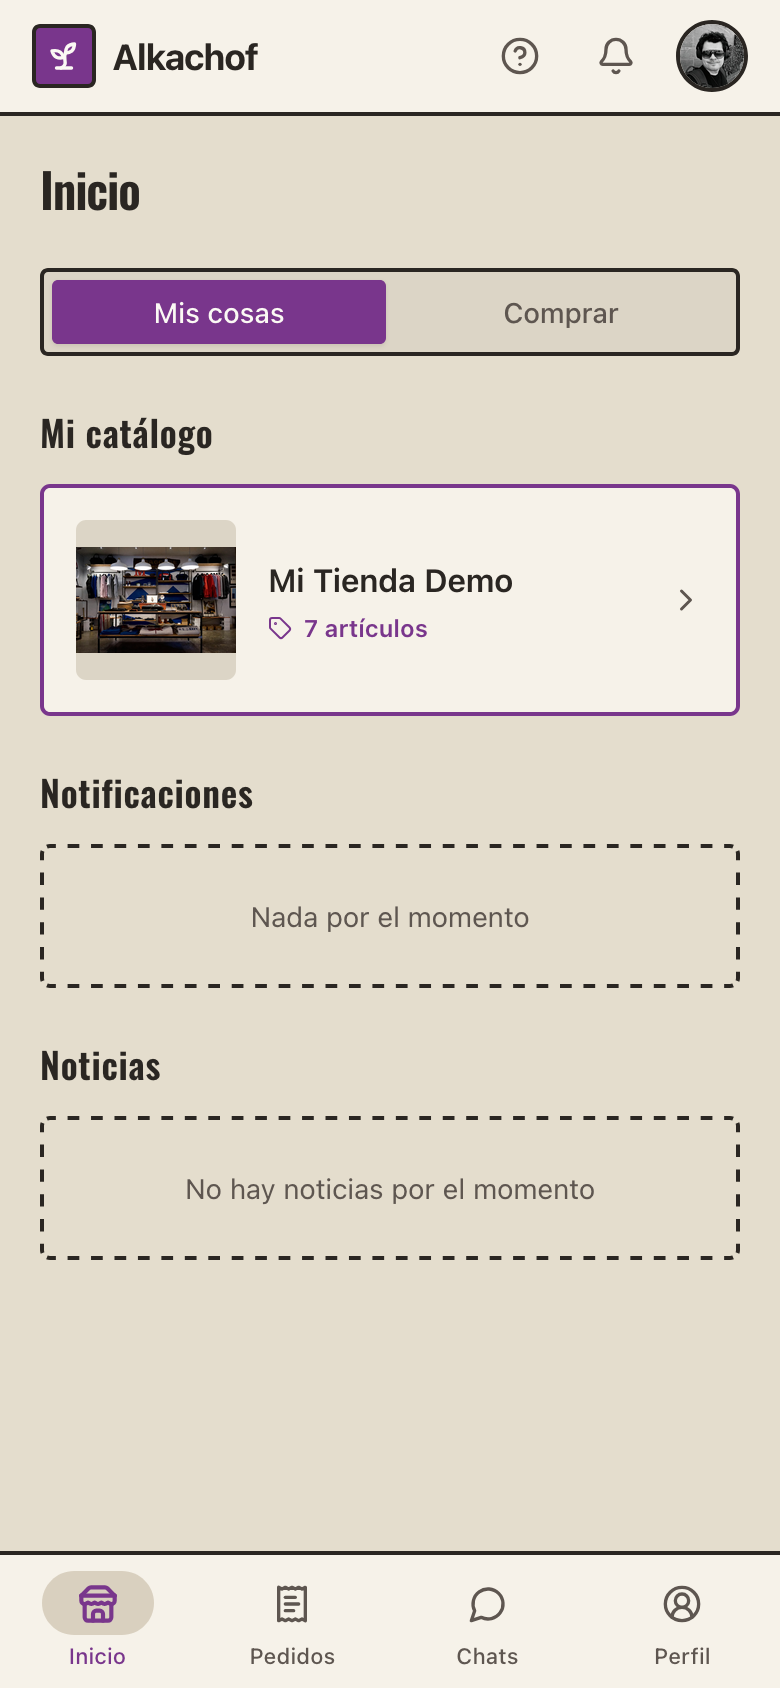
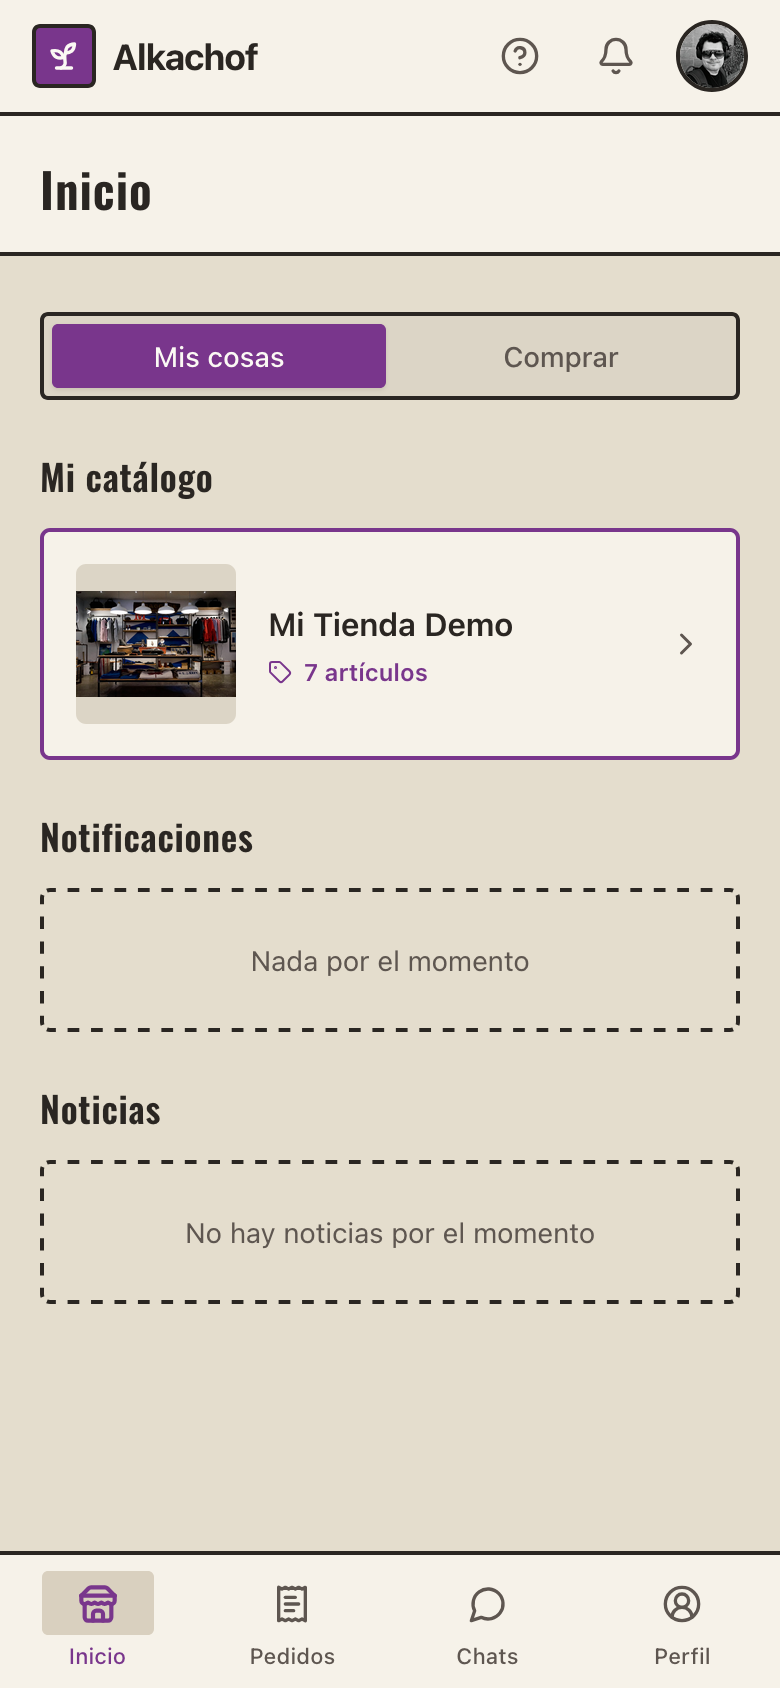
Finished clean UI

diff --git a/src/sections/catalog/components/CatalogHeader.tsx b/src/sections/catalog/components/CatalogHeader.tsx
@@ -27,22 +27,22 @@ export function CatalogHeader() {
 
         <div className="flex items-start justify-between gap-3">
           <div className="flex flex-col gap-1">
-            <h1 className="text-3xl font-bold leading-tight">{catalog.alias}</h1>
+            <h1 className="stamp stamp-mark text-2xl">{catalog.alias}</h1>
             {catalog.welcomeText && (
-              <p className="text-base text-primary-foreground/80">{catalog.welcomeText}</p>
+              <p className="text-base text-foreground">{catalog.welcomeText}</p>
             )}
           </div>
           <button
             onClick={() => setEditing(true)}
             aria-label="Editar catálogo"
-            className="relative shrink-0 rounded-full bg-primary-foreground/20 p-2.5 transition-colors hover:bg-primary-foreground/30 active:scale-95"
+            className="relative shrink-0 rounded-xl border-2 border-ink bg-card p-2.5 text-foreground transition-[background-color] press-ink"
           >
             <Pencil size={16} />
           </button>
         </div>
 
         {catalog.description && (
-          <p className="text-sm text-primary-foreground/70">{catalog.description}</p>
+          <p className="text-sm text-muted-foreground">{catalog.description}</p>
         )}
 
         <CatalogHeroImage
@@ -52,7 +52,7 @@ export function CatalogHeader() {
         />
 
         {catalog.location && (
-          <p className="flex items-center gap-1.5 text-sm text-primary-foreground/70">
+          <p className="flex items-center gap-1.5 text-sm text-muted-foreground">
             <MapPin size={14} className="shrink-0" />
             {catalog.location}
           </p>
@@ -60,7 +60,7 @@ export function CatalogHeader() {
 
         {catalog.payOptions.length > 0 && (
           <div className="flex flex-col gap-1.5">
-            <span className="text-[11px] font-semibold uppercase tracking-wider text-primary-foreground/60">
+            <span className="folio uppercase tracking-wider">
               Pago
             </span>
             <div className="flex flex-wrap gap-1.5">
@@ -71,7 +71,7 @@ export function CatalogHeader() {
 
         {catalog.deliveryType.length > 0 && (
           <div className="flex flex-col gap-1.5">
-            <span className="text-[11px] font-semibold uppercase tracking-wider text-primary-foreground/60">
+            <span className="folio uppercase tracking-wider">
               Envío
             </span>
             <div className="flex flex-wrap gap-1.5">
@@ -84,7 +84,7 @@ export function CatalogHeader() {
           <Button
             asChild
             size="sm"
-            className="bg-primary-foreground text-primary hover:bg-primary-foreground/90"
+            className="border-2 border-ink bg-primary text-primary-foreground press"
           >
             <Link to={`/catalog/${catalog._id}`}>
               <ExternalLink size={14} />
@@ -96,7 +96,7 @@ export function CatalogHeader() {
             size="sm"
             variant="outline"
             onClick={() => setSharing(true)}
-            className="border-primary-foreground/40 bg-transparent text-primary-foreground hover:bg-primary-foreground/15 hover:text-primary-foreground"
+            className="border-2 border-ink bg-card text-foreground press-ink"
           >
             <Share2 size={14} />
             Compartir
@@ -107,7 +107,7 @@ export function CatalogHeader() {
             variant="outline"
             onClick={() => setAnnouncing(true)}
             disabled={onCooldown}
-            className="border-primary-foreground/40 bg-transparent text-primary-foreground hover:bg-primary-foreground/15 hover:text-primary-foreground"
+            className="border-2 border-ink bg-card text-foreground press-ink"
           >
             <Megaphone size={14} />
             Anunciar
@@ -115,7 +115,7 @@ export function CatalogHeader() {
         </div>
 
         {onCooldown && cooldownUntil && (
-          <p className="text-xs text-primary-foreground/70">
+          <p className="text-xs text-muted-foreground">
             Próximo anuncio disponible {formatAvailableAt(cooldownUntil)}.
           </p>
         )}

diff --git a/src/sections/catalog/components/ProductGrid.tsx b/src/sections/catalog/components/ProductGrid.tsx
@@ -133,10 +133,10 @@ export function ProductGrid() {
         </div>
       ) : (
         <ul className="flex flex-col gap-2">
-          {items.map((item) => (
+          {items.map((item, index) => (
             <li
               key={item._id}
-              className="flex items-stretch gap-3 overflow-hidden rounded-2xl border-2 border-ink bg-card focus-within:ring-2 focus-within:ring-primary"
+              className="flex items-stretch gap-3 overflow-hidden rounded-2xl border-2 border-ink bg-card focus-within:outline-3 focus-within:outline-offset-2 focus-within:outline-ring"
             >
               <button
                 className="flex min-w-0 flex-1 items-center gap-3 p-2 text-left focus:outline-none"
@@ -145,6 +145,9 @@ export function ProductGrid() {
                   item.name || (isService(item) ? 'Servicio sin nombre' : 'Producto sin nombre')
                 }
               >
+                <span className="folio shrink-0 self-start pt-1">
+                  {String(index + 1).padStart(2, '0')}
+                </span>
                 {item.imgPath ? (
                   <div className="flex h-16 w-16 shrink-0 items-center justify-center overflow-hidden rounded-xl bg-muted">
                     <img
@@ -184,6 +187,34 @@ export function ProductGrid() {
             </li>
           ))}
         </ul>
+      )}
+
+      {items.length > 0 && remainingCatalogSlots(items.length) > 0 && (
+        <div className="flex flex-col gap-2">
+          <ul className="flex flex-col gap-2">
+            {Array.from(
+              { length: Math.min(remainingCatalogSlots(items.length), 4) },
+              (_, i) => (
+                <li key={`casilla-${i}`}>
+                  <button
+                    type="button"
+                    onClick={() => setAddingProduct(true)}
+                    className="box-empty flex w-full items-center gap-3 p-3 text-left transition-[background-color] press-ink"
+                  >
+                    <span className="folio">
+                      {String(items.length + i + 1).padStart(2, '0')}
+                    </span>
+                    <span className="text-sm text-muted-foreground">Casilla libre</span>
+                    <Plus size={14} className="ml-auto text-muted-foreground" />
+                  </button>
+                </li>
+              ),
+            )}
+          </ul>
+          <p className="folio uppercase">
+            Quedan {remainingCatalogSlots(items.length)} de {MAX_CATALOG_ITEMS} casillas
+          </p>
+        </div>
       )}
 
       {editingItem && (

diff --git a/src/components/CatalogImage.tsx b/src/components/CatalogImage.tsx
@@ -20,7 +20,7 @@ type HeroProps = {
 export function CatalogHeroImage({ src, alt, hint }: HeroProps) {
   if (src) {
     return (
-      <div className="overflow-hidden rounded-2xl bg-primary-foreground/10">
+      <div className="overflow-hidden rounded-xl border-2 border-ink bg-muted">
         <img src={src} alt={alt} className="w-full object-contain" />
       </div>
     )
@@ -30,7 +30,7 @@ export function CatalogHeroImage({ src, alt, hint }: HeroProps) {
     <div
       role="img"
       aria-label="Este catálogo aún no tiene imagen"
-      className="flex aspect-[16/9] w-full flex-col items-center justify-center gap-1.5 rounded-2xl border-2 border-ink border-dashed border-primary-foreground/40 bg-primary-foreground/10 text-primary-foreground/70"
+      className="flex aspect-[16/9] w-full flex-col items-center justify-center gap-1.5 rounded-2xl border-2 border-ink border-dashed border-primary-foreground/40 bg-primary-foreground/10 text-muted-foreground"
     >
       <ImageIcon size={28} aria-hidden="true" />
       <p className="text-xs font-medium">Imagen del catálogo</p>

diff --git a/src/sections/profile/ProfilePage.tsx b/src/sections/profile/ProfilePage.tsx
@@ -27,9 +27,9 @@ export function ProfilePage() {
 
   return (
     <div className="flex flex-col gap-6 p-5">
-      <header className="flex items-start justify-between gap-3">
+      <header className="-mx-5 -mt-5 mb-1 border-b-2 border-ink bg-card px-5 pb-4 pt-5 flex items-start justify-between gap-3">
         <div className="flex flex-col gap-1">
-          <h1 className="text-2xl font-bold tracking-tight">Mi perfil</h1>
+          <h1 className="text-2xl">Mi perfil</h1>
           <p className="text-sm text-muted-foreground">
             Actualiza tus datos y tu foto para que tus clientes te reconozcan.
           </p>
@@ -37,7 +37,7 @@ export function ProfilePage() {
         <button
           onClick={() => setEditing(true)}
           aria-label="Editar perfil"
-          className="shrink-0 rounded-full bg-muted p-2.5 transition-colors hover:bg-muted/70 active:scale-95"
+          className="shrink-0 rounded-xl border-2 border-ink bg-card p-2.5 transition-[background-color] press-ink"
         >
           <Pencil size={16} />
         </button>

diff --git a/src/sections/join/components/InvitationCard.tsx b/src/sections/join/components/InvitationCard.tsx
@@ -4,15 +4,15 @@ import { resolveMediaUrl } from '@/lib/mediaUrl'
 
 /**
  * The gradient is not decoration: `CatalogHeroImage`'s placeholder branch uses
- * `primary-foreground` tones that are only legible on a `primary` background.
+ * card-stock tones: this card is flat paper, not a saturated panel.
  */
 export function InvitationCard({ catalog }: { catalog: Catalog }) {
   return (
     <div className="flex flex-col gap-4 rounded-xl border-2 border-ink bg-card p-5 text-foreground">
       <div className="flex flex-col gap-1">
-        <h1 className="text-3xl font-bold leading-tight">{catalog.alias}</h1>
+        <h1 className="stamp stamp-mark text-2xl">{catalog.alias}</h1>
         {catalog.welcomeText && (
-          <p className="text-base text-primary-foreground/80">{catalog.welcomeText}</p>
+          <p className="text-base text-foreground">{catalog.welcomeText}</p>
         )}
       </div>
       <CatalogHeroImage src={resolveMediaUrl(catalog.image)} alt={catalog.alias} />

diff --git a/src/sections/transactions/TransactionsPage.tsx b/src/sections/transactions/TransactionsPage.tsx
@@ -70,10 +70,12 @@ export function TransactionsPage() {
 
   return (
     <div className="flex flex-col gap-4 p-5">
-      <div className="flex items-center justify-between gap-3">
-        <h1 className="text-2xl font-bold tracking-tight">Pedidos</h1>
-        <ScopeToggle scope={scope} onChange={setScope} />
-      </div>
+      <header className="-mx-5 -mt-5 mb-1 border-b-2 border-ink bg-card px-5 pb-4 pt-5">
+        <div className="flex items-center justify-between gap-3">
+          <h1 className="text-2xl">Pedidos</h1>
+          <ScopeToggle scope={scope} onChange={setScope} />
+        </div>
+      </header>
 
       <div role="tablist" aria-label="Tipo de pedido" className="flex gap-1 rounded-xl border-2 border-ink bg-muted p-1">
         {ROLE_TABS.map((tab) => (

diff --git a/src/sections/publicCatalog/components/CatalogItemList.tsx b/src/sections/publicCatalog/components/CatalogItemList.tsx
@@ -88,7 +88,9 @@ export function CatalogItemList() {
             className={`mb-3 break-inside-avoid${highlightedId === item._id ? ' product-highlight' : ''}`}
           >
             <button
-              className="relative flex w-full flex-col overflow-hidden rounded-xl border-2 border-ink bg-card text-left transition-[background-color] press-ink"
+              className={`relative flex w-full flex-col overflow-hidden rounded-xl border-2 border-ink bg-card text-left transition-[background-color] press-ink${
+                !isService(item) && item.outOfStock ? ' punched' : ''
+              }`}
               onClick={() => setSelectedItem(item)}
             >
               {/* The box's printed number. A catalog is a fixed set of boxes,

diff --git a/src/sections/home/components/MyCatalogCard.tsx b/src/sections/home/components/MyCatalogCard.tsx
@@ -56,7 +56,7 @@ export function MyCatalogCard({ catalog, itemCount }: Props) {
       </Link>
 
       {itemCount === 0 && (
-        <div className="flex flex-col items-center gap-3 rounded-2xl border-2 border-ink border-dashed p-8 text-center">
+        <div className="flex flex-col items-center gap-3 rounded-2xl border-2 border-primary border-dashed p-8 text-center">
           <span className="flex h-14 w-14 items-center justify-center rounded-full bg-secondary text-secondary-foreground">
             <PackagePlus size={26} />
           </span>

diff --git a/src/sections/home/HomePage.tsx b/src/sections/home/HomePage.tsx
@@ -73,7 +73,11 @@ export function HomePage() {
 
   return (
     <div className="flex flex-col gap-6 p-5">
-      <h1 className="text-2xl font-bold tracking-tight">Inicio</h1>
+      {/* The card's printed head: stock above the rule, manila below it, so
+          every page reads as the same card the catalog is printed on. */}
+      <header className="-mx-5 -mt-5 mb-1 border-b-2 border-ink bg-card px-5 pb-4 pt-5">
+        <h1 className="text-2xl">Inicio</h1>
+      </header>
 
       <HomeTabs
         active={tab}

diff --git a/src/sections/chat/ChatListPage.tsx b/src/sections/chat/ChatListPage.tsx
@@ -7,7 +7,9 @@ export function ChatListPage() {
 
   return (
     <div className="flex flex-col gap-4 p-5">
-      <h1 className="text-2xl font-bold tracking-tight">Chats</h1>
+      <header className="-mx-5 -mt-5 mb-1 border-b-2 border-ink bg-card px-5 pb-4 pt-5">
+        <h1 className="text-2xl">Chats</h1>
+      </header>
 
       {status === 'loading' && <ListSkeleton />}
       {status === 'error' && <ListError onRetry={reload} />}

diff --git a/src/sections/chat/components/MessageBubble.tsx b/src/sections/chat/components/MessageBubble.tsx
@@ -20,7 +20,7 @@ export function MessageBubble({ message }: { message: ChatMessage }) {
         <span
           className={cn(
             'mt-1 block text-right text-[10px]',
-            outgoing ? 'text-primary-foreground/70' : 'text-muted-foreground',
+            outgoing ? 'text-primary-foreground' : 'text-muted-foreground',
           )}
         >
           {timeFormatter.format(new Date(message.sent))}

diff --git a/src/sections/home/__tests__/HomePage.test.tsx b/src/sections/home/__tests__/HomePage.test.tsx
@@ -336,7 +336,7 @@ describe('MyCatalogCard', () => {
     expect(await screen.findByText('Sin artículos todavía')).toBeInTheDocument()
   })
 
-  it('outlines the card in the green signature color', async () => {
+  it('outlines the card in the signature color', async () => {
     renderPage()
 
     const link = await screen.findByRole('link', { name: /abrir mi catálogo/i })
